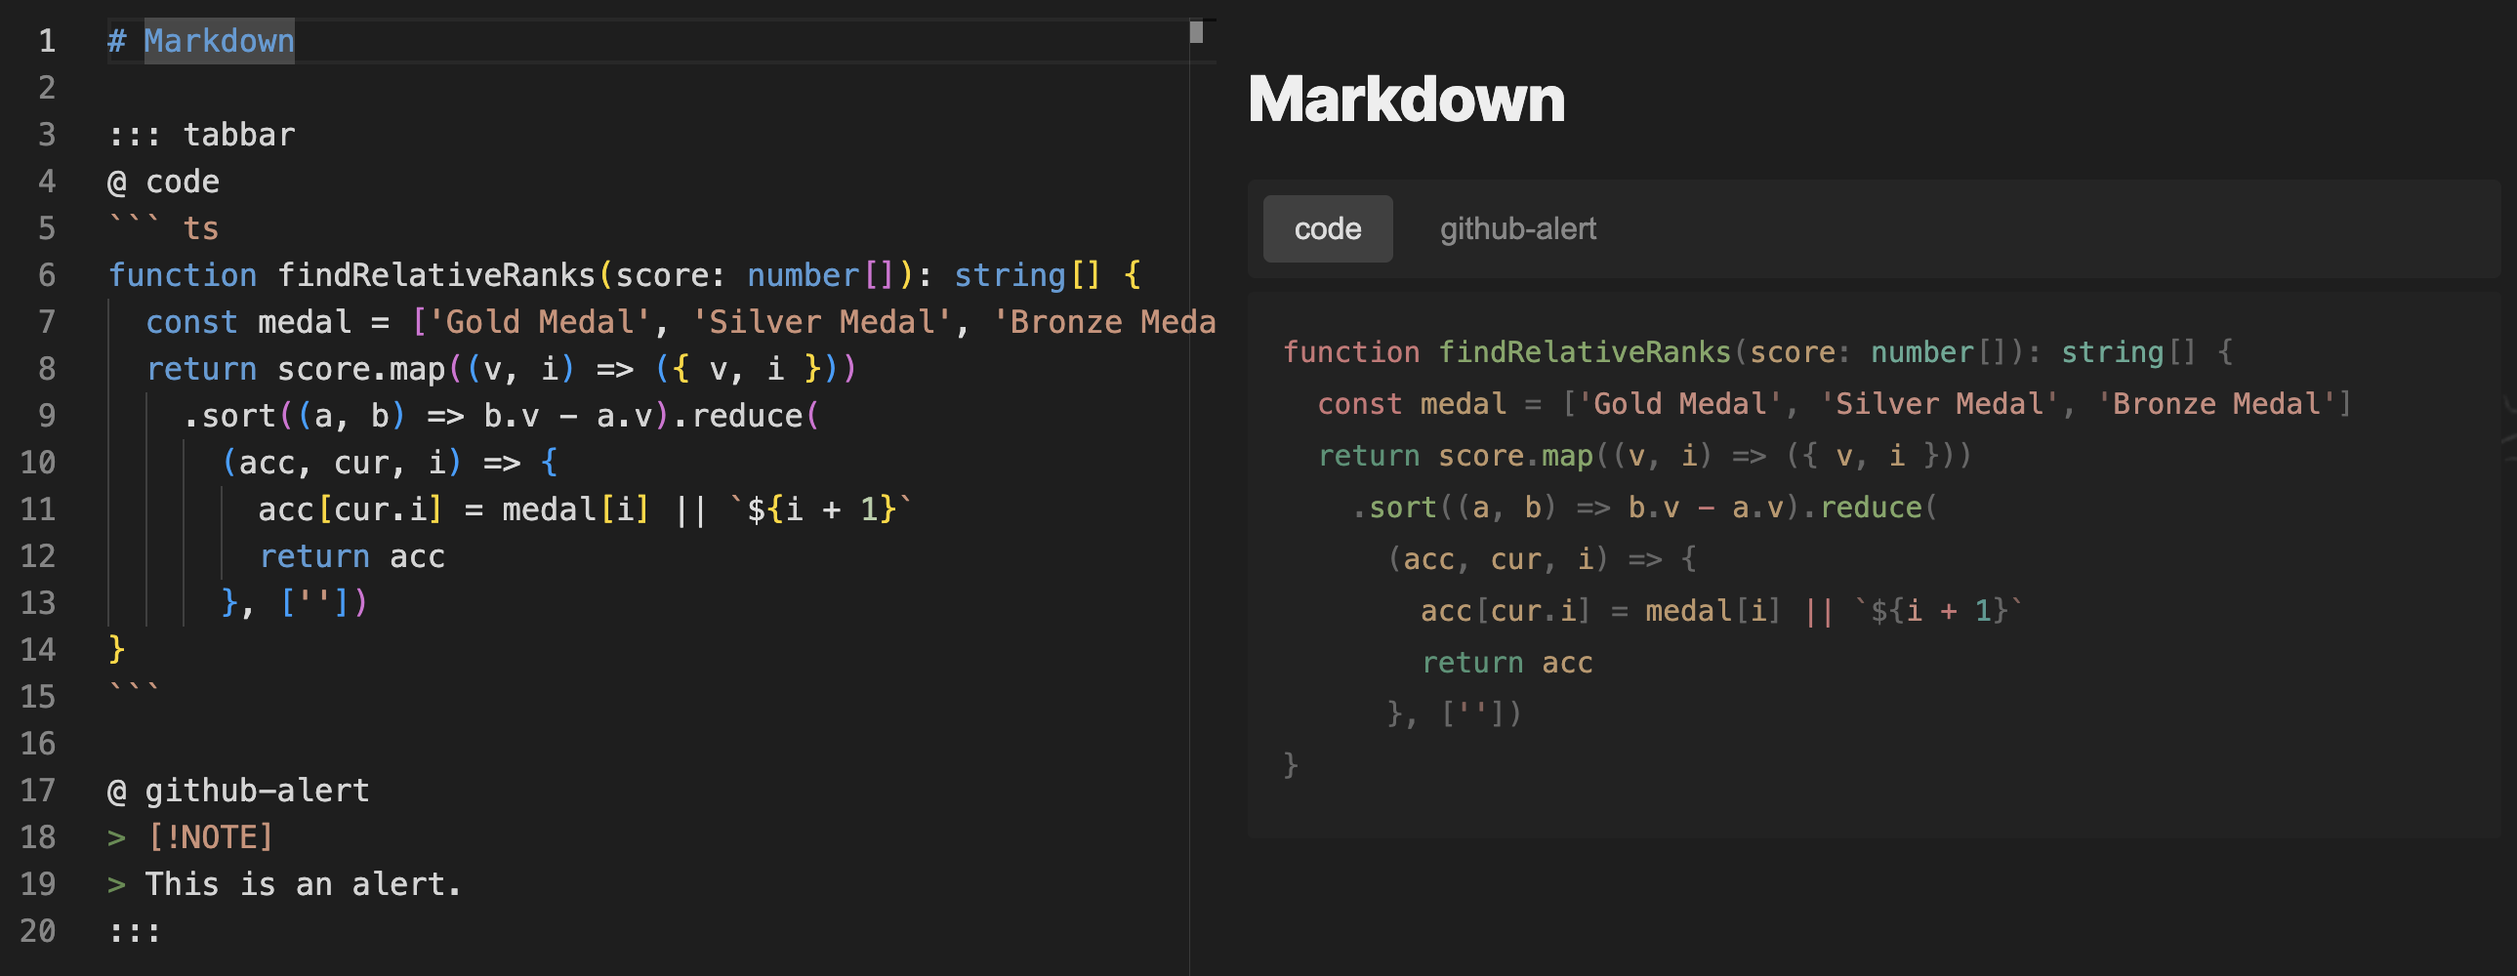
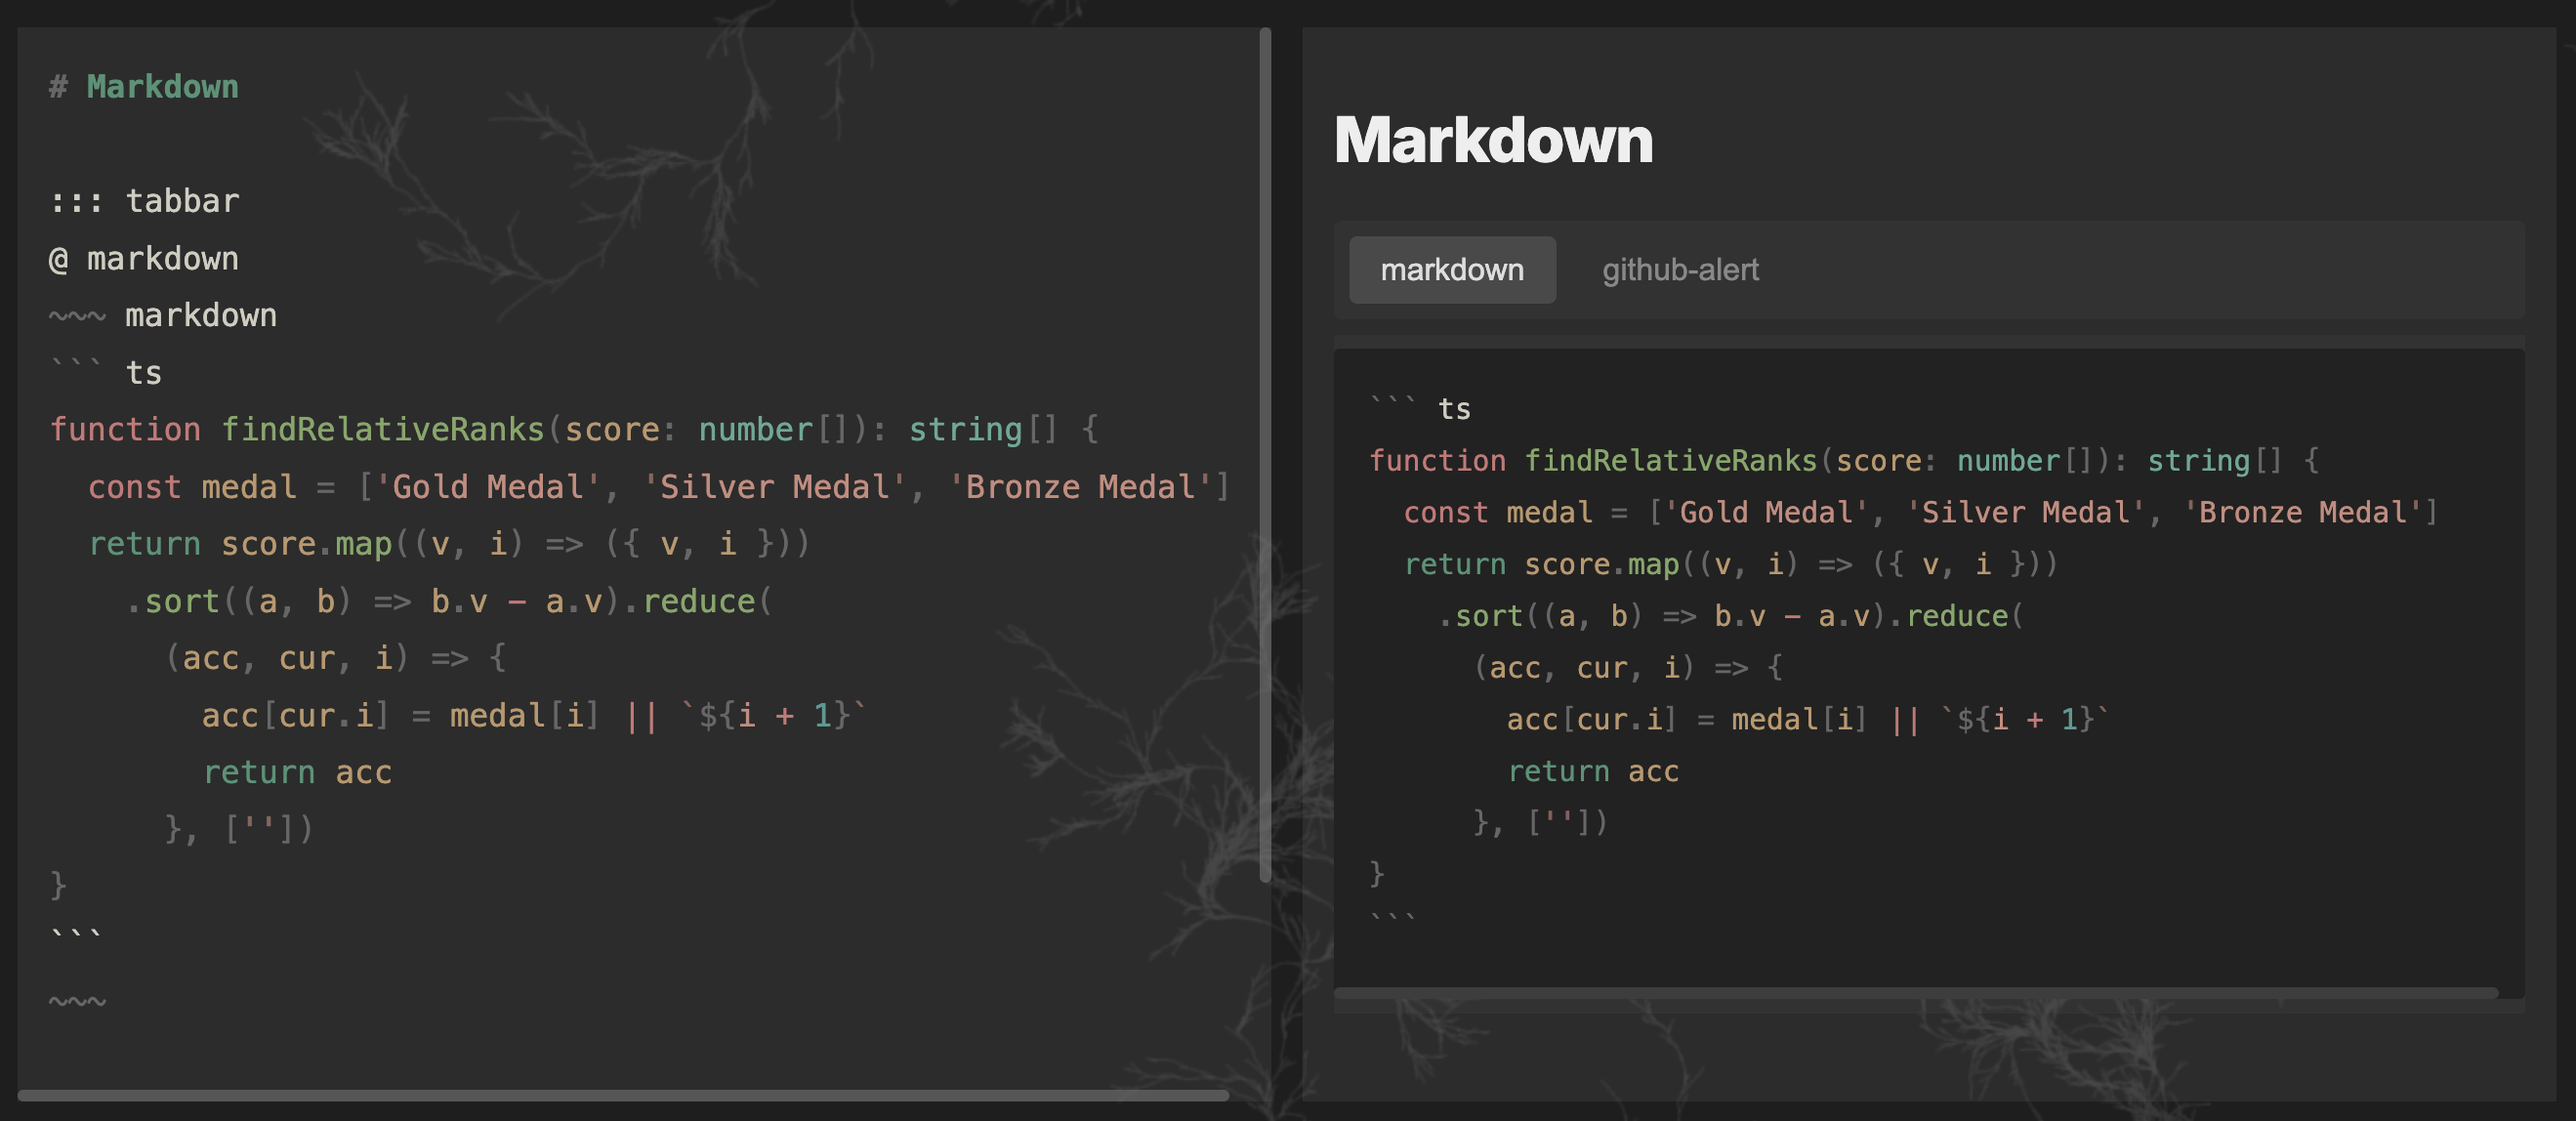
feat: unify theme of markdown editor

diff --git a/src/pages/demos/components/ShikiEditor.vue b/src/pages/demos/components/ShikiEditor.vue
@@ -1,0 +1,89 @@
+<script setup lang='ts'>
+import { ref, watch, onMounted, nextTick } from 'vue'
+import { useThemeStore } from '../../../stores/theme'
+import { createHighlighter } from 'shiki'
+
+const content = defineModel<string>()
+const rendered = ref<string>()
+const { theme } = useThemeStore()
+
+const editor = ref<HTMLTextAreaElement>()
+const preview = ref<HTMLDivElement>()
+
+let highlighter: Awaited<ReturnType<typeof createHighlighter>>
+
+const syncScroll = () => {
+  const e = editor.value!
+  const p = preview.value!
+  p.scrollTop = e.scrollTop
+  p.scrollLeft = e.scrollLeft
+}
+
+const render = (code: string = '') => {
+  rendered.value = highlighter.codeToHtml(code, {
+    lang: 'markdown',
+    theme: `vitesse-${theme.value}`,
+    transformers: [{
+      preprocess(code) {
+        // Workaround for https://github.com/shikijs/shiki/issues/608
+        // When last span is empty, it's height is 0px
+        // so add a newline to render it correctly
+        if (code.endsWith('\n'))
+          return `${code}\n`
+      },
+    }]
+  })
+}
+
+
+onMounted(async () => {
+  highlighter = await createHighlighter({
+    themes: ['vitesse-dark', 'vitesse-light'],
+    langs: ['typescript', 'javascript', 'markdown'],
+  })
+
+  watch(content, () => {
+    render(content.value)
+    nextTick(syncScroll)
+  }, { immediate: true })
+
+  watch(theme, () => {
+    render(content.value)
+    nextTick(syncScroll)
+  })
+})
+</script>
+
+<template>
+  <div relative class="demo-markdown-wrapper">
+    <div overflow-auto w-full h-full z-10 box-border
+      ref="preview" pointer-events-none p-4>
+      <span v-html="rendered" children-m-0 
+        class="demo-markdown-mock" />
+    </div>
+    <textarea v-model="content" ref="editor"
+      @scroll="syncScroll()"
+      b-0 whitespace-pre inset-0 outline-0
+      resize-none bg-transparent caret-hex-10b981
+      tab-4 z-5 p-4 text-transparent
+      autocomplete="off" autocorrect="off" 
+      autocapitalize="off" spellcheck="false" />
+  </div>
+</template>
+
+<style>
+.demo-markdown-mock button.markdown-copy-code-button {
+  display: none;
+}
+
+.demo-markdown-wrapper>* {
+  line-height: 1.8;
+  font-family: monospace;
+  font-size: 1.25em;
+  position: absolute;
+}
+
+.demo-markdown-mock * {
+  background-color: transparent !important;
+}
+</style>

diff --git a/src/pages/demos/components/Markdown.vue b/src/pages/demos/components/Markdown.vue
@@ -1,49 +1,25 @@
 <script setup lang='ts'>
 import ClientMarkdown from '../../../components/ClientMarkdown.vue'
-import { ref, onMounted, watch } from 'vue'
+import ShikiEditor from './ShikiEditor.vue'
+import { ref, onMounted } from 'vue'
 import { useStorage } from '@vueuse/core'
-import { setAPPHeight } from '../../../utils/layout'
-import { useThemeStore } from '../../../stores/theme'
+import { getAppHeight } from '../../../utils/layout'
 
+const container = ref<HTMLDivElement>()
 const content = ref<string>('# Markdown')
-const theme = useThemeStore()
 useStorage('markdown-monaco-editor-content', content)
-const monacoElement = ref<HTMLElement>()
-onMounted(async () => {
-  setAPPHeight(monacoElement.value!)
-  if (typeof window === 'undefined') return
-  const monaco = await import('monaco-editor')
-  const editor = monaco.editor.create(monacoElement.value!, {
-    value: content.value,
-    language: 'markdown',
-    minimap: { enabled: false },
-    fontSize: 16,
-  })
-  monaco.editor.defineTheme('dark', {
-    base: 'vs-dark',
-    inherit: true,
-    rules: [],
-    colors: { 'editor.background': '#1e1e1e' },
-  })
-  monaco.editor.defineTheme('light', {
-    base: 'vs',
-    inherit: true,
-    rules: [],
-    colors: { 'editor.background': '#e1e1e1' },
-  })
-  watch(theme.theme, () => {
-    monaco.editor.setTheme(theme.theme.value)
-  }, { immediate: true })
-  editor.onDidChangeModelContent(() => {
-    content.value = monaco.editor.getModels()[0].getValue()
-  })
+onMounted(() => {
+  container.value!.style.height = getAppHeight()
+  container.value!.style.maxHeight = getAppHeight()
 })
 </script>
 
 <template>
-  <div grid="~ lg:cols-2 lt-lg:rows-2 gap-4">
-    <div ref="monacoElement" />
-    <ClientMarkdown :content="content" />
+  <div grid="~ cols-2 gap-4" ref="container"
+    children-bg-hex-8882>
+    <ShikiEditor v-model="content" />
+    <ClientMarkdown :content="content" 
+      p-4 overflow-auto />
   </div>
 </template>
 

diff --git a/src/components/ClientMarkdown.vue b/src/components/ClientMarkdown.vue
@@ -1,12 +1,25 @@
 <script setup lang='ts'>
-import { computed } from 'vue'
+import { ref, watch, onMounted } from 'vue'
 import { useMarkdown } from '../utils/markdown'
 
 const { md } = useMarkdown()
 const props = defineProps<{
   content: string
 }>()
-const html = computed(() => md.render(props.content))
+const html = ref<string>('')
+
+let timeout: NodeJS.Timeout | number | undefined = undefined
+const render = () => {
+  if (timeout)
+    clearTimeout(timeout as number)
+  timeout = setTimeout(() => {
+    html.value = md.render(props.content)
+  }, 200)
+}
+
+onMounted(() => {
+  watch(() => props.content, render, { immediate: true })
+})
 </script>
 
 <template>

diff --git a/vite.config.ts b/vite.config.ts
@@ -8,7 +8,6 @@ import Alerts from 'markdown-it-github-alerts'
 import CopyCode from 'markdown-it-copy-code'
 import Anchor from 'markdown-it-anchor'
 import Tabbar from 'markdown-it-tabbar'
-import Monaco from 'vite-plugin-monaco-editor'
 import LinkAttributes from 'markdown-it-link-attributes'
 import { rendererRich, transformerTwoslash } from '@shikijs/twoslash'
 
@@ -21,7 +20,6 @@ export default defineConfig({
       include: [/\.vue$/, /\.md$/]
     }),
     UnoCSS(),
-    Monaco({}),
     Markdown({
       wrapperClasses: 'markdown',
       markdownItOptions: {

diff --git a/src/pages/demos/components/SparkChat.vue b/src/pages/demos/components/SparkChat.vue
@@ -4,7 +4,7 @@ import { useStorage } from '@vueuse/core';
 import { nextTick, onMounted, ref } from 'vue';
 import { SparkChat } from '../logics/spark-chat';
 import ChatHistory from './ChatHistory.vue'
-import { setAPPHeight } from '../../../utils/layout'
+import { setAppHeight } from '../../../utils/layout'
 
 const message = useMessage()
 const editor = ref<HTMLTextAreaElement>()
@@ -70,7 +70,7 @@ const autoResize = () => {
 
 
 onMounted(() => {
-  setAPPHeight(container.value!)
+  setAppHeight(container.value!)
   editor.value!.focus()
   autoResize()
 })

diff --git a/src/utils/layout.ts b/src/utils/layout.ts
@@ -1,8 +1,12 @@
-const setAPPHeight = (el: HTMLElement) => {
+const setAppHeight = (el: HTMLElement) => {
+  el.style.height = getAppHeight()
+}
+
+const getAppHeight = () => {
   const windowHeight = window.innerHeight
   const headerHeight = (5 + 8 + 8) * 0.25
   const footerHeight = (4 + 6 + 8) * 0.25
-  el.style.height = `calc(${windowHeight}px - ${headerHeight}rem - ${footerHeight}rem - 3rem)`
+  return `calc(${windowHeight}px - ${headerHeight}rem - ${footerHeight}rem - 3rem)`
 }
 
-export { setAPPHeight }
+export { setAppHeight, getAppHeight }

diff --git a/src/utils/notation-stretcher/path-generator.ts b/src/utils/notation-stretcher/path-generator.ts
@@ -1,3 +1,4 @@
+
 import { RoughGenerator } from 'roughjs/bin/generator'
 import type { PathRoughOptions, MarkType, PathConstructor, MultiBracket, SingleBracket } from './notation-types'
 import { DEFAULT_ROUGH_OPTIONS } from './notation-store'
@@ -71,6 +72,7 @@ export default class PathGenerator extends RoughGenerator {
                 1 << (3 - i) as SingleBracket
               )
             )
+          return undefined
         }).filter(x => !!x).flat()
       case 'x':
         return (w, h) => [

diff --git a/src/styles/custom.sass b/src/styles/custom.sass
@@ -41,13 +41,13 @@ button
 
 html .shiki,
 html .shiki span
-  color: var(--shiki-light) !important
-  background-color: #ddd !important
+  color: var(--shiki-light)
+  background-color: #ddd
 
 html.dark .shiki,
 html.dark .shiki span
-  color: var(--shiki-dark) !important
-  background-color: #222 !important
+  color: var(--shiki-dark)
+  background-color: #222
 
 .markdown-alert
   margin-top: 16px

diff --git a/src/stores/theme.ts b/src/stores/theme.ts
@@ -1,7 +1,7 @@
 import { useWindowSize, useStorage } from '@vueuse/core'
 import { watch, ref, nextTick } from 'vue'
 
-const theme = ref('dark')
+const theme = ref<'light' | 'dark'>('dark')
 watch(theme, () => {
   if (typeof document === 'undefined') return
   document.querySelectorAll('html').forEach((element) => {
